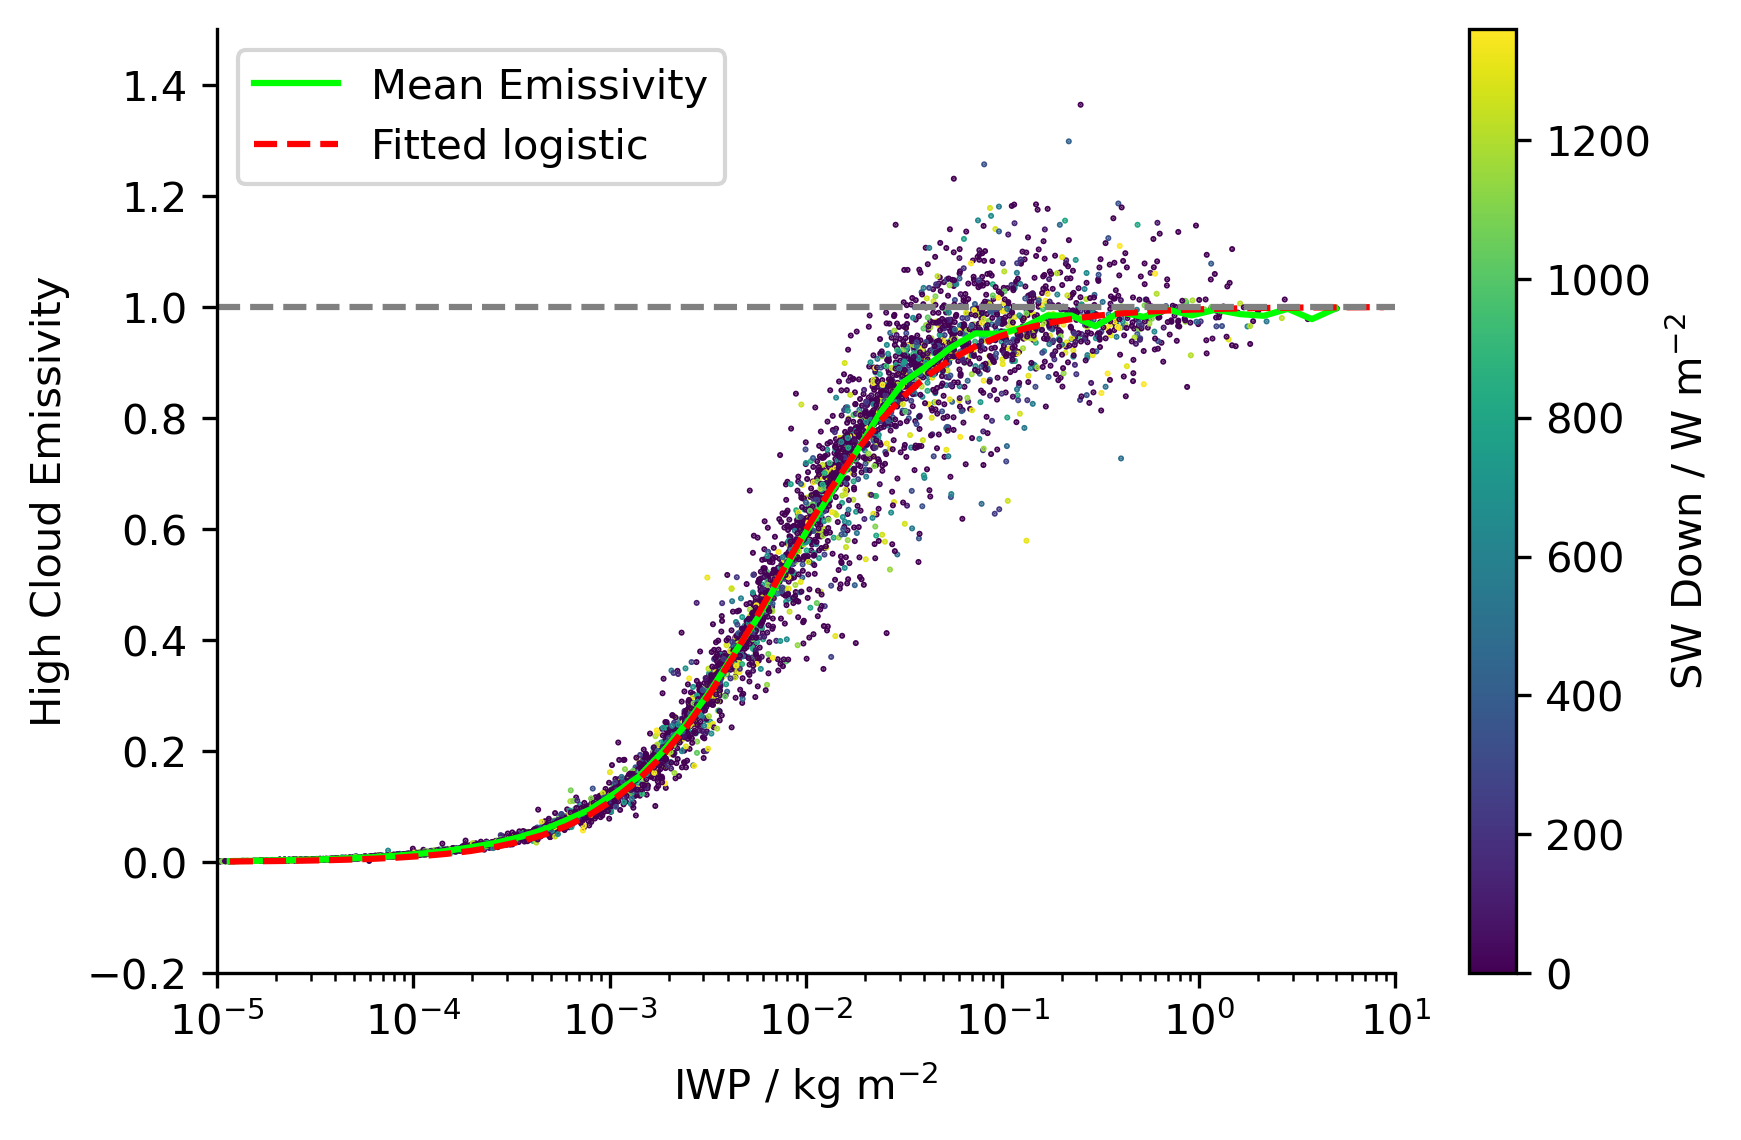
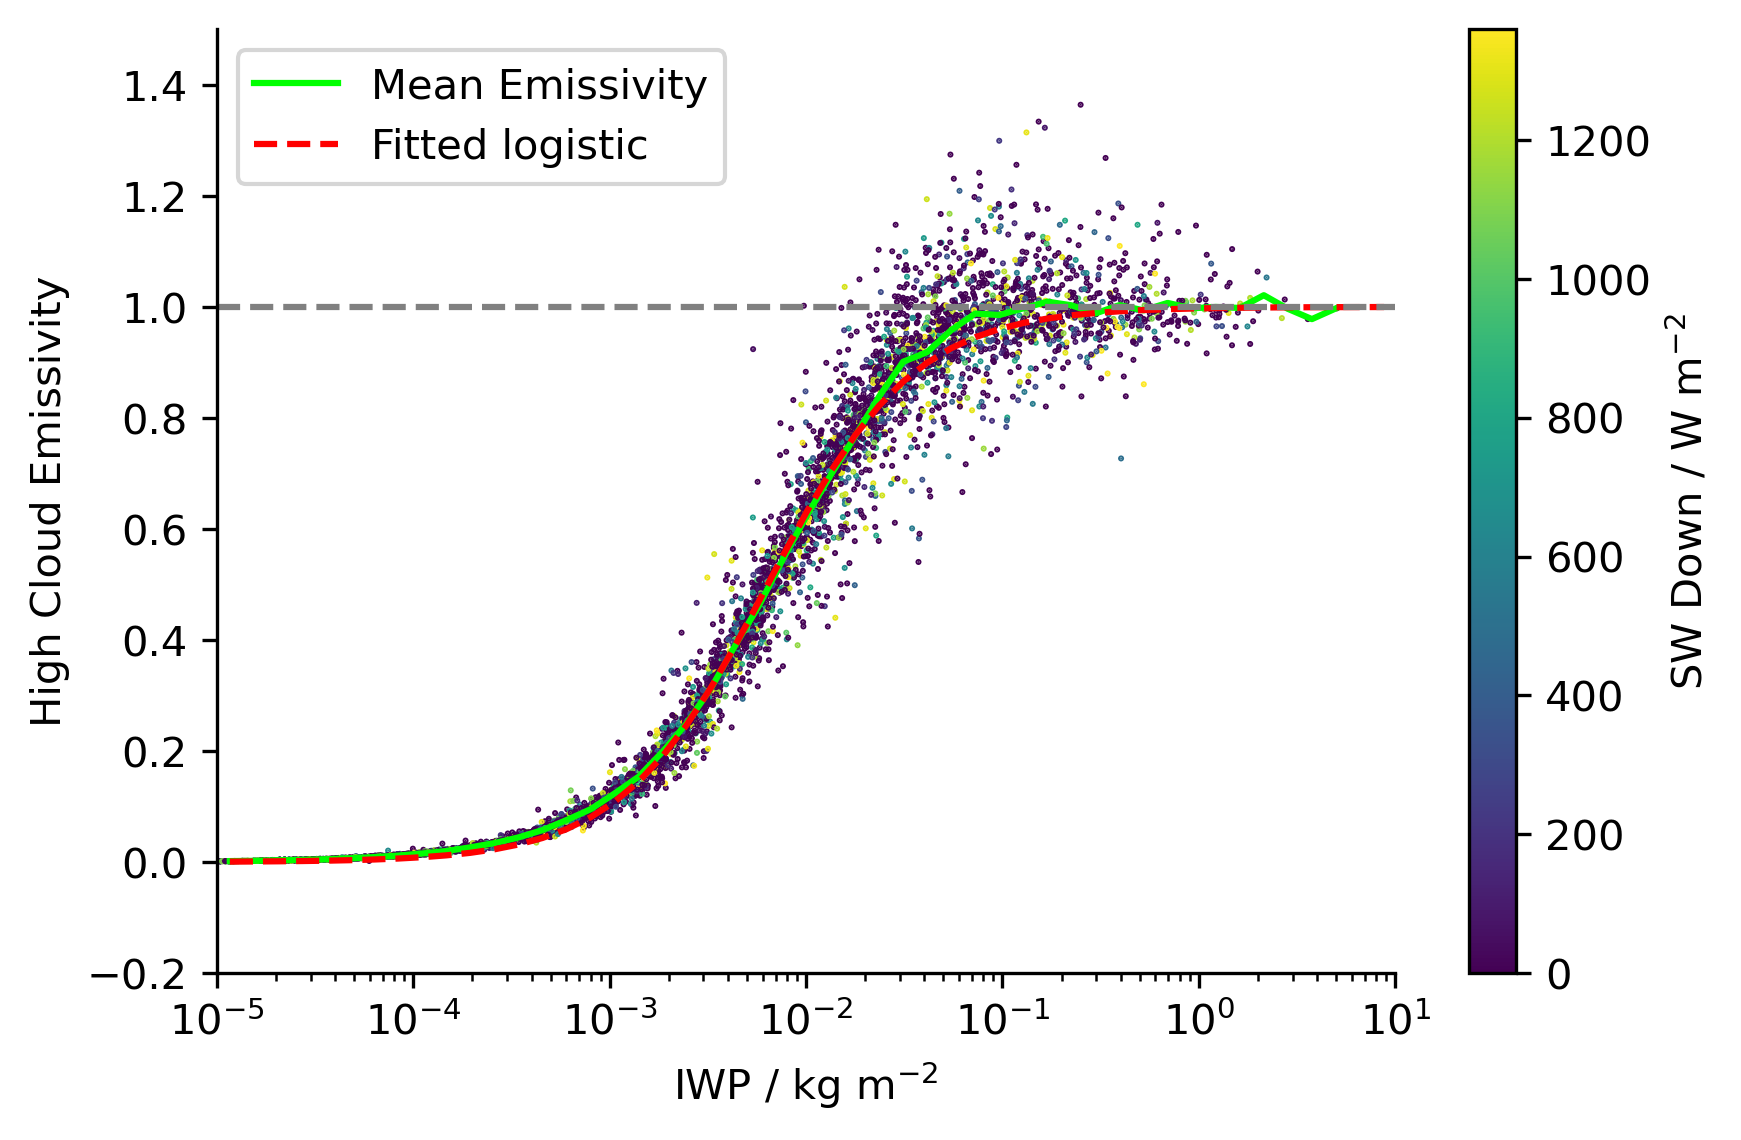
h2o dependence added and iwp_cumsum for p_top set to 3e-3

diff --git a/src/plot/inspect_vapor_dependence.py b/src/plot/inspect_vapor_dependence.py
@@ -1,0 +1,111 @@
+# %% import 
+import numpy as np
+import matplotlib.pyplot as plt
+import xarray as xr
+from src.read_data import load_atms_and_fluxes, load_derived_vars
+from src.icon_arts_analysis import cut_data
+from scipy.stats import linregress
+import pickle 
+
+# %% load data
+atms, fluxes_3d, fluxes_3d_noice = load_atms_and_fluxes()
+lw_vars, sw_vars, lc_vars = load_derived_vars()
+aux = xr.open_dataset("/work/bm1183/m301049/icon_arts_processed/fullrange_flux_mid1deg/aux.nc")
+
+# %%  calculate column water vapor 
+cell_height = atms["geometric height"].diff("pressure")
+cell_height_bottom = xr.DataArray(
+    data=cell_height.isel(pressure=0).values,
+    dims=["lat", "lon"],
+    coords={
+        "pressure": fluxes_3d["pressure"][0],
+        "lat": fluxes_3d["lat"],
+        "lon": fluxes_3d["lon"],
+    },
+)
+cell_height = xr.concat([cell_height_bottom, cell_height], dim="pressure")
+
+col_h2o = (atms['H2O'] * cell_height).sum('pressure')
+# %% plot R_t at locations without low clouds against IWP and color with column water vapor
+mask = lw_vars['mask_hc_no_lc']
+
+fig, ax = plt.subplots(1, 1, figsize=(6, 4))
+sc = ax.scatter(
+    cut_data(atms['IWP'], mask=mask),
+    cut_data(lc_vars['R_t'], mask=mask),
+    c=cut_data(col_h2o, mask=mask),
+    s=1,
+    cmap='viridis',
+)
+
+ax.set_xscale('log')
+ax.set_xlabel('IWP [kg/m$^2$]')
+ax.set_ylabel('R$_t$ [W/m$^2$]')
+ax.spines['right'].set_visible(False)
+ax.spines['top'].set_visible(False)
+cbar = fig.colorbar(sc, ax=ax)
+cbar.set_label('Column water vapor [kg/m$^2$]')
+
+# %% plot R_t vs column water vapor and column water vapor vs IWP
+fig, axes = plt.subplots(1, 2, figsize=(11, 4))
+
+axes[0].scatter(
+    cut_data(col_h2o, mask=mask),
+    cut_data(lc_vars['R_t'], mask=mask),
+    s=0.5,
+    color='k'
+)
+
+axes[0].set_xlabel('Column water vapor [kg/m$^2$]')
+axes[0].set_ylabel('R$_t$ [W/m$^2$]')
+
+sc = axes[1].scatter(
+    cut_data(atms['IWP'], mask=mask),
+    cut_data(col_h2o, mask=mask),
+    s=0.5,
+    c = cut_data(fluxes_3d['allsky_sw_down'].isel(pressure=-1), mask)
+)
+axes[1].set_xscale('log')
+axes[1].set_xlabel('IWP [kg/m$^2$]')
+axes[1].set_ylabel('Column water vapor [kg/m$^2$]')
+
+for ax in axes:
+    ax.spines['right'].set_visible(False)
+    ax.spines['top'].set_visible(False)
+
+# add colorbar
+cbar = fig.colorbar(sc, ax=axes[1])
+cbar.set_label('SW$_{TOA}$ [W/m$^2$]')
+
+
+# %% linear regression of R_t vs IWP 
+x = cut_data(atms['IWP'], mask=mask).values.flatten()
+y = cut_data(lc_vars['R_t'], mask=mask).values.flatten()
+mask_nan_x = ~np.isnan(x)
+mask_nan_y = ~np.isnan(y)
+mask_nan = mask_nan_x & mask_nan_y
+x = np.log10(x[mask_nan])
+y = y[mask_nan] - np.mean(y[mask_nan])
+res = linregress(x, y)
+
+# %% plot R_t vs IWP and add linear regression
+fig, ax = plt.subplots(1, 1, figsize=(6, 4))
+ax.scatter(
+    cut_data(atms['IWP'], mask=mask),
+    cut_data(lc_vars['R_t'], mask=mask) - np.mean(cut_data(lc_vars['R_t'], mask=mask)),
+    s=0.5,
+    color='k'
+)
+x = np.logspace(-6, 1, 100)
+ax.plot(
+    x,
+    res.intercept + res.slope * np.log10(x),
+    color='r'
+)
+ax.set_xscale('log')
+
+# %% export parameters
+with open('/work/bm1183/m301049/icon_arts_processed/derived_quantities/water_vapor_dependence.pkl', 'wb') as f:
+    pickle.dump(res, f)
+
+# %%

diff --git a/src/hc_model.py b/src/hc_model.py
@@ -119,7 +119,7 @@ def calc_alpha_t(
 
 
 def calc_R_t(
-    LWP, lc_fraction, R_t_cs, R_t_params, const_lc_quantities, prescribed_lc_quantities
+    LWP, IWP, lc_fraction, R_t_cs, R_t_params, h20_params, const_lc_quantities, prescribed_lc_quantities
 ):
     """
     Calculates the LW radiation from below the high clouds.
@@ -145,9 +145,10 @@ def calc_R_t(
     if const_lc_quantities is not None:
         lc_value = const_lc_quantities["R_t"]
     else:
-        lc_value = R_t_params.slope * LWP + R_t_params.intercept
+        lc_value = R_t_params.slope * np.log10(LWP) + R_t_params.intercept
         lc_value[lc_value < R_t_cs] = R_t_cs
-    avg_value = lc_fraction * lc_value + (1 - lc_fraction) * R_t_cs
+    h2o_correction = h20_params.slope * np.log10(IWP) + h20_params.intercept
+    avg_value = lc_fraction * lc_value + (1 - lc_fraction) * R_t_cs + h2o_correction
     if prescribed_lc_quantities is not None:
         avg_value = prescribed_lc_quantities["R_t"]
     return avg_value
@@ -260,9 +261,11 @@ def run_model(
     )
     R_t = calc_R_t(
         LWP_binned,
+        IWP_points,
         lc_fraction_binned,
         R_t_cs,
         parameters["R_t"],
+        parameters["h2o_dependence"],
         const_lc_quantities,
         prescribed_lc_quantities,
     )

diff --git a/src/process_icon_arts/calculate_emissivity_noice.py b/src/process_icon_arts/calculate_emissivity_noice.py
@@ -18,7 +18,7 @@ lw_vars = xr.Dataset()
 mean_lw_vars = pd.DataFrame()
 
 # %% calculate high cloud temperature from vertically integrated IWP
-IWP_emission = 2e-3  # IWP where high clouds become opaque
+IWP_emission = 3e-3  # IWP where high clouds become opaque
 
 p_top_idx_thin = (atms["IWC"] + atms['snow'] + atms['graupel']).argmax("pressure")
 p_top_bool_thick = atms["IWC_cumsum"] > IWP_emission
@@ -90,7 +90,7 @@ def logistic(x, L, x0, k):
 
 
 x = np.log10(IWP_points)
-y = mean_lw_vars["binned_emissivity"]
+y = mean_lw_vars["binned_emissivity"].copy()
 y[IWP_points > 1e-1] = 1
 nan_mask = ~np.isnan(y)
 x = x[nan_mask]

diff --git a/src/read_data.py b/src/read_data.py
@@ -117,12 +117,15 @@ def load_parameters():
         alpha_t = pickle.load(f)
     with open(path + "R_t_params.pkl", "rb") as f:
         R_t = pickle.load(f)
+    with open(path + "water_vapor_dependence.pkl", "rb") as f:
+        h2o_dependence = pickle.load(f)
 
     return {
         "alpha_hc": hc_albedo,
         "em_hc": hc_emissivity,
         "alpha_t": alpha_t,
         "R_t": R_t,
+        "h2o_dependence": h2o_dependence,
     }
 
 def load_average_lc_parameters():

diff --git a/src/plot/test_full_model.py b/src/plot/test_full_model.py
@@ -55,8 +55,8 @@ result = run_model(
     LWP = cut_data(atms['LWP'], mask),
     IWP = cut_data(atms['IWP'], mask),
     parameters = parameters,
-    const_lc_quantities=None,
-    prescribed_lc_quantities=prescribed_lc_quantitites
+    const_lc_quantities=const_lc_quantities,
+    prescribed_lc_quantities=None
 )
 
 # %% plot model results
